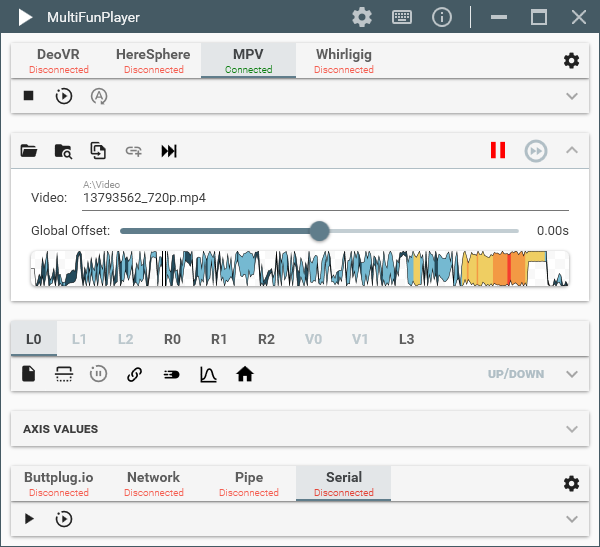
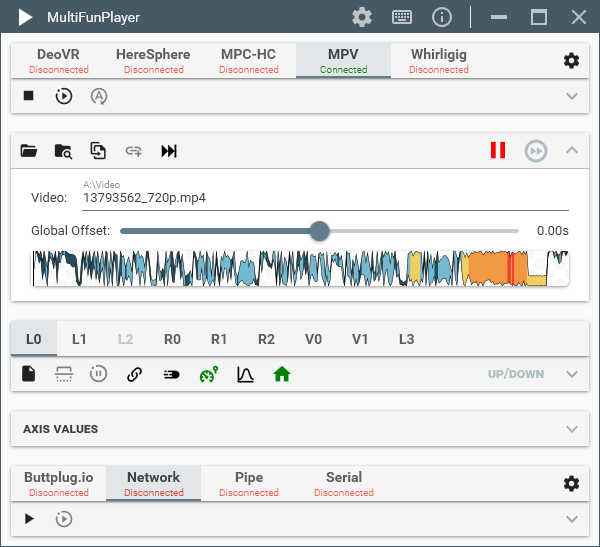
Update README.md

diff --git a/README.md b/README.md
@@ -8,12 +8,12 @@
 
 # About
 
-MultiFunPlayer is a simple app to synchronize your devices (e.g. [OSR](https://www.patreon.com/tempestvr) or [buttplug.io](https://buttplug.io) supported devices) with any video using funscripts. Supported video players are [DeoVR](https://deovr.com/), [MPV](https://mpv.io/), [HereSphere](https://store.steampowered.com/app/1234730/HereSphere/) and [Whirligig](http://whirligig.xyz/).
+MultiFunPlayer is a simple app to synchronize your devices (e.g. [OSR](https://www.patreon.com/tempestvr) or [buttplug.io](https://buttplug.io) supported devices) with any video using funscripts. Supported video players are [DeoVR](https://deovr.com/), [MPV](https://mpv.io/), [MPC-HC/BE](https://github.com/clsid2/mpc-hc), [HereSphere](https://store.steampowered.com/app/1234730/HereSphere/) and [Whirligig](http://whirligig.xyz/).
 The player's main feature is the ability to play multiple funscripts at the same time, allowing for greater movement fidelity.
 
 # Features
 
-* Supports [DeoVR](https://deovr.com/), [MPV](https://mpv.io/), [HereSphere](https://store.steampowered.com/app/1234730/HereSphere/) and [Whirligig](http://whirligig.xyz/) video players
+* Supports [DeoVR](https://deovr.com/), [MPV](https://mpv.io/), [MPC-HC/BE](https://github.com/clsid2/mpc-hc), [HereSphere](https://store.steampowered.com/app/1234730/HereSphere/) and [Whirligig](http://whirligig.xyz/) video players
 * Supports [buttplug.io](https://buttplug.io), network TCP/UDP, namedpipes and serial output
 * Supports TCode v0.2 and TCode v0.3 devices
 * Auto detection and connection to any supported video player and output
@@ -21,6 +21,7 @@ The player's main feature is the ability to play multiple funscripts at the same
 * Seek and play/pause video from MultiFunPlayer
 * Supports multiple concurrent outputs
 * Real time script smoothing using pchip or makima interpolation
+* Per axis speed limit
 * Auto-home feature which when video is paused moves axis to its default value after some delay
 * Supports local, DLNA, web and unc video paths
 * Soft start sync feature to prevent unwanted motion
